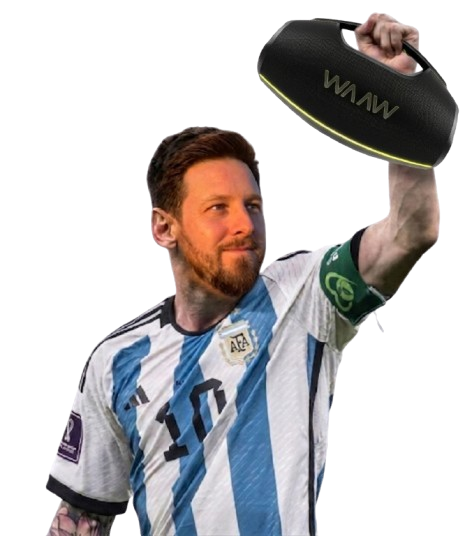
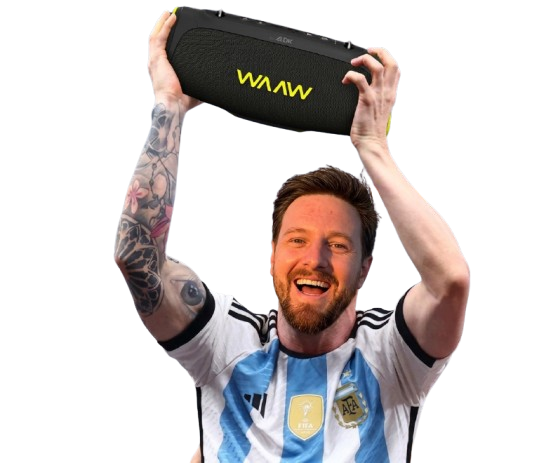
Ajustes no painel joaao

diff --git a/index.html b/index.html
@@ -914,19 +914,20 @@ function fireCanary(stolenText, targetEl){
   const cornerEl2      = document.getElementById('player-corner');
   const infos2 = [
     { src:'./andre.png', alt:'André', title:'⭐ Melhor meio-campista da Croácia!', text:'Luka "ANDRE" Modrić "FEIJO" (nascido em 9 de setembro de 1985, em Zadar, Croácia) é amplamente considerado um dos maiores meio-campistas da história do futebol.' },
-    { 
-  src: './ever.png', 
-  alt: 'Héctor Moreno', 
-  title: '⚽ QUATRO COPAS DO MUNDO — Héctor "EWERSON" Moreno', 
-  text: 'O zagueiro mexicano Héctor "EWERSON" Moreno disputou quatro Copas do Mundo pela Seleção Mexicana: 2010 (África do Sul), 2014 (Brasil), 2018 (Rússia) e 2022 (Catar)', 
+   { 
+  src: './xande.png', 
+  alt: 'Pedro Neto', 
+  title: ' DESTAQUE DE PORTUGAL — Pedro "ALEXANDRE" Neto', 
+  text: 'O atacante português Pedro "ALEXANDRE" Neto é um dos grandes destaques da Seleção de Portugal na Copa do Mundo, chamando atenção pela velocidade, dribles e poder de decisão no ataque.', 
   html: true 
-    },
-    {
-  src:'./veiga.png',
-  alt:'Xabi Alonso',
-  title:'🎯 VOCÊ SABIA? — Xabi Alonso',
-  text:'"VEIGA" Xabi Alonso foi campeão da Copa do Mundo FIFA de 2010 com a seleção da Espanha'
-  },
+   },
+   { 
+  src:'./tozo.png',
+  alt:'Gianni Infantino',
+  title:'🏆 VOCÊ SABIA? — Gianni "TOZO" Infantino',
+  text:'"JOAO" Gianni "TOZO" <b>Infantino</b> é o atual presidente da FIFA. O suíço-italiano assumiu o comando da entidade em 2016 e lidera a organização das principais competições do futebol mundial, incluindo a Copa do Mundo.',
+  html:true
+   },
   {
   src: './simi.png',
   alt: 'Diego Simeone',
@@ -958,7 +959,13 @@ function fireCanary(stolenText, targetEl){
   const bubbleTitleEl= document.getElementById('messi-bubble-title');
   const bubbleTextEl = document.getElementById('messi-bubble-text');
   const infos = [
-    { src:'./diego.png', alt:'Diego', title:'📊 Recorde na Copa', text:'"<b>Diego</b>" Lionel "<b>Mafioletti</b>" <b>Messi</b> é o maior artilheiro da história das Copas, com 16 gols — marca alcançada com um hat-trick contra a Argélia, igualando o recorde do alemão Miroslav Klose.', html:true },
+   { 
+  src:'./marcus.png',
+  alt:'Marcus',
+  title:'🇧🇷 HERÓI DA CLASSIFICAÇÃO',
+  text:'"MARCUS" Gabriel Martinelli é um dos grandes destaques da Seleção Brasileira na Copa do Mundo de 2026. O atacante foi o herói da classificação do Brasil para as oitavas de final ao marcar o gol da virada.',
+  html:true
+   },
     { src:'./canarinho.png', alt:'Canarinho', title:'🐤 VOCÊ SABIA QUEM ERA POR BAIXO DA FANTASIA?', text:'RAFAEL GODOI, em entrevista, declara que é o verdadeiro Canarinho da Seleção!' },
     { src:'./treinador.png', alt:'Dick Advocaat', className:'treinador-img', title:'🏆 Recorde de experiência', text:'Dick "Nestor" Advocaat, técnico do Curaçao, aos 78 anos se torna o treinador mais experiente da história das Copas — um novo recorde na FIFA.' },
     {
@@ -968,7 +975,14 @@ function fireCanary(stolenText, targetEl){
   title:'🏆 Ángel "ROVER" Di María',
   text:'Ángel "ROVER" Di María é um dos maiores ídolos da história da Seleção Argentina, sendo peça-chave na conquista da Copa do Mundo de 2022.'
    },
-    { src:'./diogo.png', alt:'Pepe Reina', className:'goleiro-img', title:'🧤 VOCÊ SABIA? — Pepe "DIOGO" Reina', text:'Pepe "<b>Diogo</b>" Reina é um dos goleiros mais vitoriosos e longevos do futebol europeu. O espanhol fez parte do histórico grupo da Seleção Espanhola que conquistou a Copa do Mundo de 2010.', html:true }
+   { 
+  src:'./francisco.png',
+  alt:'Francisco',
+  className:'goleiro-img',
+  title:'📸 FOTOGÊNICO DENTRO E FORA DE CAMPO — Francisco "LUCAS" Conceição',
+  text:'Francisco "LUCAS" Conceição é um atacante de 23 anos que defende a Seleção Portuguesa e a Juventus. Além do talento em campo, o português também chama atenção pelo estilo e pelas fotos marcantes, sendo um dos jogadores mais fotogênicos da Copa.',
+  html:true
+   },
   ];
   let idx = 0;
   function switchInfo(){